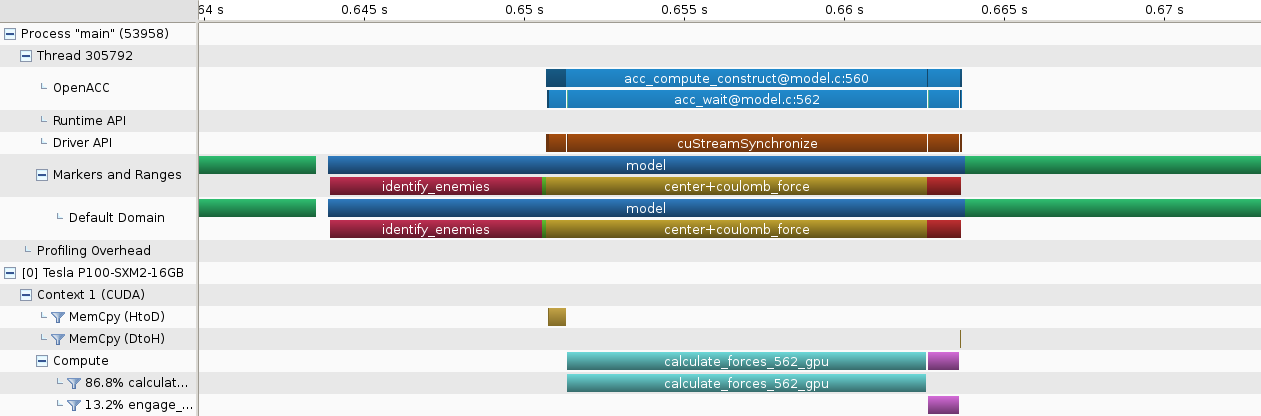
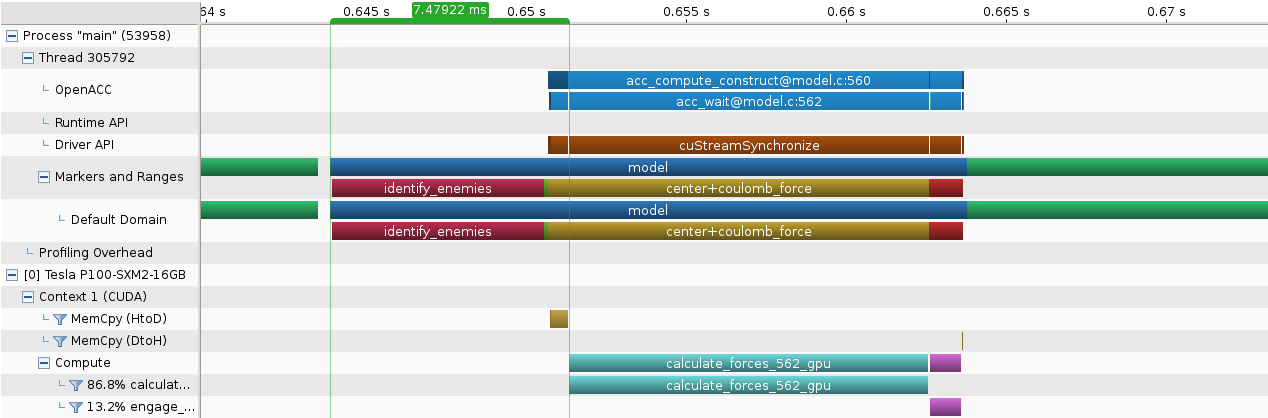
step5 goals

diff --git a/step.md b/step.md
@@ -12,11 +12,19 @@ In this step we are going to
 * 
 
 ### Your Tasks
+Below a screenshot of the NVIDIA Visual Profiler, of the timeline of a single iteration from the start of this Step 5.
 ![Screenshot of Step 5 Status using NVIDIA Visual Profiler](images/step5-status.png)
-* 
+As you can see, `identify_enemies` being executed on the CPU takes ~6.6ms, and including data transfers, the first execution of the GPU is only after ~7.5ms after the start of the iteration, which takes ~20ms.
+So during the first ~half of the iteration, computation is done only on the CPU, the GPU being idle, and during the second ~half of the iteration, computation is done only on the GPU, the CPU being idle.
+This means ~50% resource utilization.
+* Using asynchroneous OpenACC parallel regions, overlap host and device computation, such that `identify_enemies` and `center+coulomb_force` run in parallel.
+* Use asynchroneous data transfers and asynchroneous waits make the array `leaders[]` available to device-kernel `engange` before this kernel starts.
 
 ### Hints
-* 
+* The section `tree_force` is the only remaining host-computation that changes `actions[]`, while `engage` is the only device-computation that changes `actions[].new_parent`. Since we used OpenACC to duplicate fields onto the device, that means that on host and device, seperate arrays `actions[]` are being used to accumulate forces. Exiting the OpenACC parallel region will copy back `actions[]`to the host, overwriting the host's results.
+  * The two arrays need to merged properly into one host-array before the code may continue regular execution. Uncomment the commented calls to `setup_device_actions()` `merge_device_actions()`, then transfer `device_actions` instead of `actions`.
+* In the end the NVIDIA Visual Profiler should show the following timeline: 
+![Screenshot of Step 5 Goal using NVIDIA Visual Profiler](images/step5-goal.png)
 
 ## Next Step
 Continue with [Step 6](../../blob/step6/step.md)
